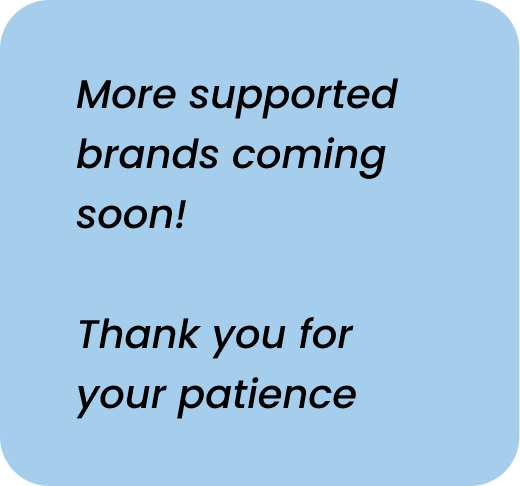
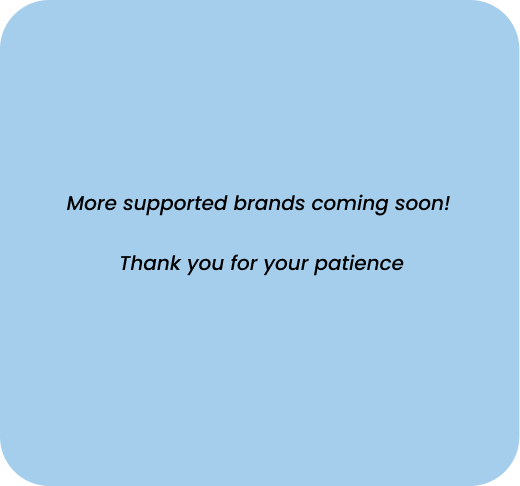
Updated Homepage

diff --git a/iphone.html b/iphone.html
@@ -1,82 +1,79 @@
 <!DOCTYPE html>
 <html lang="en">
-<head>
-    <meta charset="UTF-8">
-    <meta http-equiv="X-UA-Compatible" content="IE=edge">
-    <meta name="viewport" content="width=device-width, initial-scale=1.0">
-    <title>HiTech</title>
-    <link rel = "preconnect" href ="https://fonts.googleapis.com">
-    <link rel ="preconnect" hred="https://fonts.gstatic.com" crossorigin>
-    <link href="https://fonts.googleapis.com/css2?family=Poppins:ital,wght@0,200;0,700;1,300&display=swap" rel="stylesheet">
-    <link rel="stylesheet" href="css/style.css">
-    <link rel="stylesheet" href="css/grid.css">
-</head>
+    <head>
+        <meta charset="UTF-8">
+        <meta http-equiv="X-UA-Compatible" content="IE=edge">
+        <meta name="viewport" content="width=device-width, initial-scale=1.0">
+        <title>HiTech</title>
+        <link rel = "preconnect" href ="https://fonts.googleapis.com">
+        <link rel ="preconnect" hred="https://fonts.gstatic.com" crossorigin>
+        <link href="https://fonts.googleapis.com/css2?family=Poppins:ital,wght@0,200;0,700;1,300&display=swap" rel="stylesheet">
+        <link rel="stylesheet" href="css/style.css">
+        <link rel="stylesheet" href="css/grid.css">
+    </head>
 
 <!-- Jess -->
-<body>
-    <div id="container">
-        <nav>
-            <img class ="logo" src="image/logo.png" alt = "logo">
-            <ul class = "nav_links">
-                <li><a href = "index.html">Home</a></li>
-                <li><a href = "apple.html">Apple</a></li>
-                <li><a href = "samsung.html">Samsung</a></li>
-                
+    <body>
+        <div id="container">
+            <nav>
+                <img class ="logo" src="image/logo.png" alt = "logo">
+                <ul class = "nav_links">
+                    <li><a href = "index.html">Home</a></li>
+                    <li><a href = "apple.html">Apple</a></li>
+                    <li><a href = "samsung.html">Samsung</a></li>
+                </ul>
+            </nav>
+
+            <ul class="breadcrumb">
+                <li><a href="index.html">Home</a></li>
+                <i class="arrow right"></i>
+                <li><a href="apple.html">Apple</a></li>
+                <i class="arrow right"></i>
+                <li><a href="#">iPhone User Guide</a></li>
             </ul>
-        </nav>
 
-        <ul class="breadcrumb">
-            <li><a href="index.html">Home</a></li>
-            <i class="arrow right"></i>
-            <li><a href="apple.html">Apple</a></li>
-            <i class="arrow right"></i>
-            <li><a href="#">iPhone User Guide</a></li>
-        </ul>
+            <div class="grid">
+                <div class="item"> 
+                    <h2>Change the Font Size</h2>
+                    <a href="instructions.html"><img src="image/textsize.jpg" class="grid-images" a href="instructions.html"></a>
+                    <p>In this video you will learn how to change the font size to make it bigger or smaller so it is easier for you to read the text.</p>
+                </div>
 
-        <div class="grid">
-            <div class="item"> 
-                <h2>Change the Font Size</h2>
-                <a href="instructions.html"><img src="image/textsize.jpg" class="grid-images" a href="instructions.html"></a>
-                  <!--This needs to stay here so the title and the text dont combine -->
-                <p>In this video you will learn how to change the font size to make it bigger or smaller so it is easier for you to read the text. </p>
-            </div>
+                <div class="item">
+                    <h2>Connect to the WIFI</h2> 
+                    <img src="image/wifi.jpg" class="grid-images">
+                    <br> <br>
+                    <p>In this video you will learn how to connect to your WIFI server .</p>
+                </div>
 
-            <div class="item">
-                <h2>Connect to the WIFI</h2> 
-                <img src="image/wifi.jpg" class="grid-images">
-                <br> <br>
-                <p>In this video you will learn how to connect to your WIFI server .</p>
-            </div>
+                <div class="item">
+                    <h2>Set up iPhone</h2>
+                    <img src="image/setupiPhone.png" class="grid-images">
+                    <br> <br>
+                    <p>In this video you will learn about how to set up your iPhone aswell as turning it on.</p>
+                </div>
 
-            <div class="item">
-                <h2>Set up iPhone</h2>
-                <img src="image/setupiPhone.png" class="grid-images">
-                <br> <br>
-                <p>In this video you will learn about how to set up your iPhone aswell as turning it on.</p>
-            </div>
+                <div class="item">
+                    <h2>Create Apple ID and Use iCloud</h2> 
+                    <img src="image/appleID.jpg" class="grid-images">
+                    <br> <br>
+                    <p>In this video you will learn how to backup your iPhone.</p>
+                </div>
 
-            <div class="item">
-                <h2>Create Apple ID and Use iCloud</h2> 
-                <img src="image/appleID.jpg" class="grid-images">
-                <br> <br>
-                In this video you will learn how to backup your iPhone.
-            </div>
+                <div class="item">
+                    <h2>Back up iPhone</h2>
+                    <img src="image/backup.jpg" class="grid-images">
+                    <br> <br>
+                    <p>In this video you will learn how to backup your iPhone.</p>
+                </div>
 
-            <div class="item">
-                <h2>Back up iPhone</h2>
-                <img src="image/backup.jpg" class="grid-images">
-                <br> <br>
-                In this video you will learn how to backup your iPhone pt2
-            </div>
-
-            <div class="item">
-                <h2>Send a text message</h2> 
-                <img src="image/text.jpg" class="grid-images">
-                <br> <br>
-                In this video you will learn how to send a text to your friends and family.
-            </div>
-
+                <div class="item">
+                    <h2>Send a text message</h2> 
+                    <img src="image/text.jpg" class="grid-images">
+                    <br> <br>
+                    <p>In this video you will learn how to send a text to your friends and family.</p>
+                </div>
+        </div>
         <footer>&copy;HiTech 2022</footer>
-    </div>
-</body>
+    </body>
 </html>

diff --git a/index.html b/index.html
@@ -33,8 +33,10 @@
             <div class = "border">
                 <p>This website is to help you with your devices and instructions showing you how to back up your phone, turn your laptop on and change the text size as well as some other instructions. </p>
             </div>
-    
-            <h3>Supported Brands</h3>
+            
+            <br>
+            <br>
+            <h3 id = "brand">Supported Brands</h3>
 
             <div class="home">
                 <div class="item-home"> 
@@ -52,8 +54,8 @@
                 <div class="item-home">
                     <img src="image/handy.png" class="home-images">
                 </div>
-                <footer>&copy;HiTech 2022</footer>
         </div>
+        <footer>&copy;HiTech 2022</footer>
     </body>
     <script src="js/carousel.js"></script>
 </html>

diff --git a/css/style.css b/css/style.css
@@ -22,7 +22,7 @@ div#container {
     max-width: 1200px;
     margin: 25px auto;
     background-color: rgb(255, 255, 255);
-    /* box-shadow: 0px 0px 25px rgb(0 0 0 / 50%); */
+    box-shadow: 0px 0px 5px rgb(0 0 0 / 10%); 
     font: 10vh;
 }
 
@@ -107,10 +107,10 @@ nav{
   text-decoration: none;
 }
 
-
- 
-
-
+#brand{
+  font-size: 1rem;
+  padding:0px 150px ;
+}
 
 /* 
 Jess Navigation
@@ -436,8 +436,8 @@ ul.fourStep {
 }
 
 footer{
-    background-color: none;
-    padding: 20px;
+    background-color: #A5CEEC;
+    padding: 10px;
     color: black;
     font-size: .8rem;
     text-align: center;

diff --git a/css/grid.css b/css/grid.css
@@ -3,11 +3,12 @@
     max-width: 1000px;
     display: grid;
     grid-template-columns:repeat(2, 1fr);
-    grid-gap: 100px; 
-    margin: 0px 20px ;
+    grid-gap: 50px; 
+    margin: 0px 300px ;
 }
 
 .item-home {
+    justify-content: center;
     cursor: pointer;
     color: black;
     padding: 0.85em;
@@ -17,7 +18,7 @@
 }
 
 .home-images{
-    width: 85%;
+    width: 100%;
     margin: 1px;
     padding: 10px;
     align-items: center;

diff --git a/apple.html b/apple.html
@@ -65,9 +65,8 @@
                     </div>  
                 </div>
         </article>
-
-        <footer>&copy;HiTech 2022</footer>
     </div>
+    <footer>&copy;HiTech 2022</footer>
     <script src="js/carousel_2.js"></script>
 </body>
 </html>
